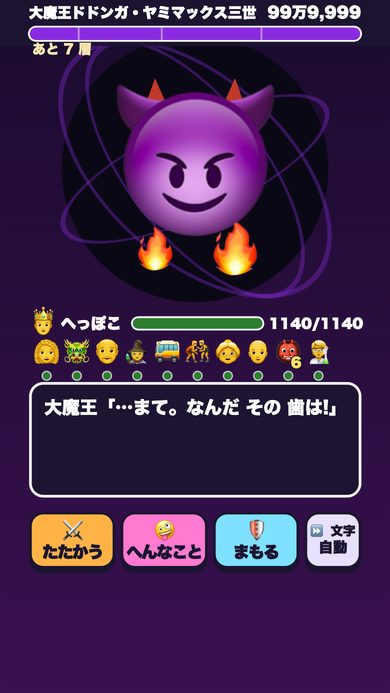
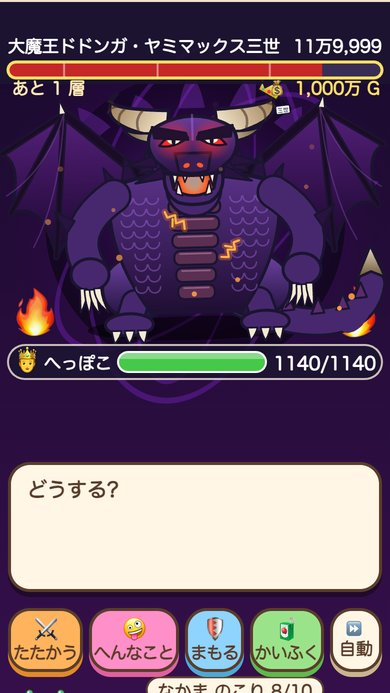
アイコン・紹介画像を手描きのへっぽこに(Apple の絵文字をやめる)

diff --git a/sw.js b/sw.js
@@ -3,7 +3,7 @@
    ゲームは index.html 1枚で完結しているので、それと アイコン類だけを覚えておく。
    ゲームを直しただけなら VERSION は そのままでいい(開くたびに、まずネットで最新を取りにいくので)。
    FILES(覚えるファイル)を変えたときだけ VERSION を 1つ上げる(古い覚えを 一斉に捨てる)。 */
-const VERSION = 'heppoko-v7';
+const VERSION = 'heppoko-v8';
 const FILES = ['./', 'index.html', 'install.js', 'manifest.webmanifest', 'icon-192.png', 'icon-512.png', 'maskable-512.png', 'apple-touch-icon.png',
   'js/data.js', 'js/audio.js', 'js/engine.js', 'js/map.js', 'js/battle.js', 'js/boss.js', 'js/doll.js', 'js/town.js', 'js/menu.js', 'js/battle-ui.js', 'js/photo.js', 'js/main.js',
   'shots/1.jpg', 'shots/2.jpg', 'shots/3.jpg', 'shots/4.jpg', 'shots/5.jpg'];
